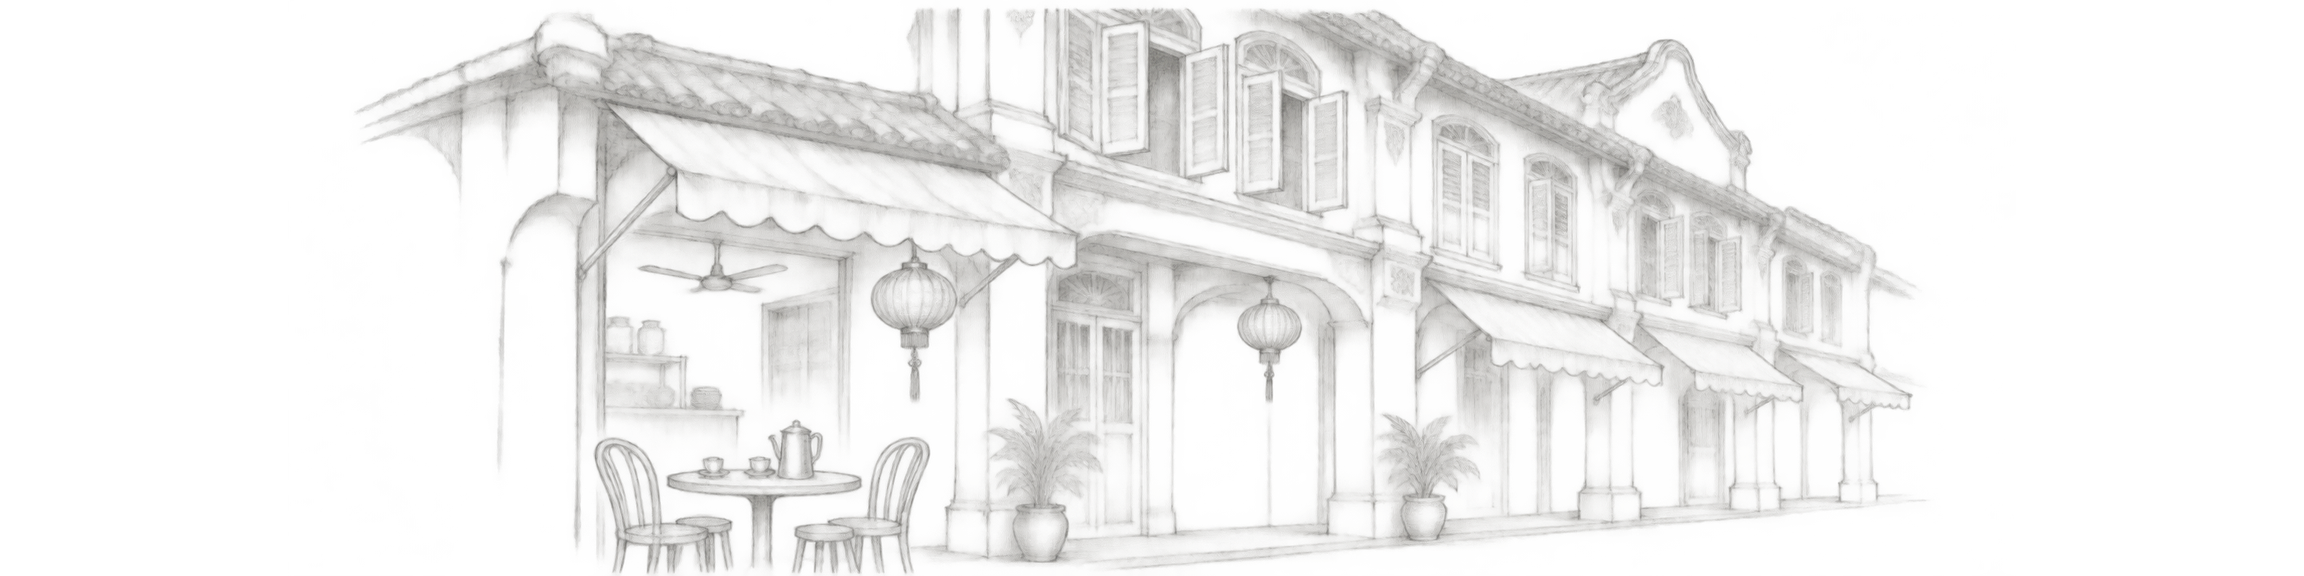
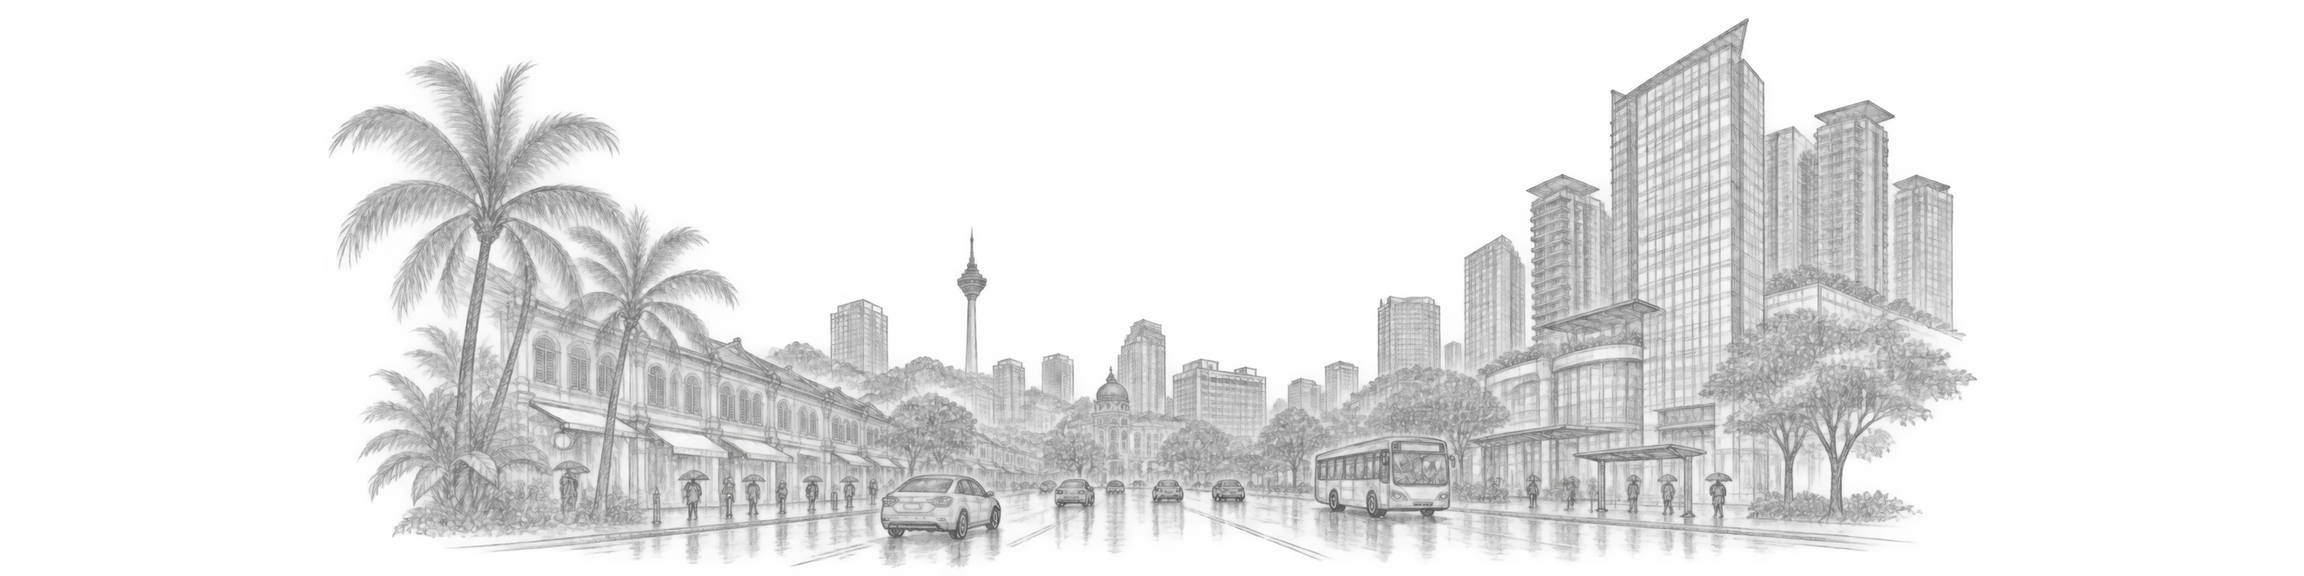
feat(rz-eval): align clues with grid and apply owner art revisions

diff --git a/docs/RZ_EVAL_P1.md b/docs/RZ_EVAL_P1.md
@@ -30,8 +30,19 @@ widersprechen dem ausdrücklichen Subjektausschluss. Kandidat 1/rev2 ersetzt ihn
 durch Handkarren und Bambuszaun ohne Landschaftshorizont. Auch dieser Fehlversuch
 bleibt im befristeten Originalsatz.
 
-Es gibt drei kreative Kandidaten je ID und zwei verworfene Vorgänger, zusammen
-17 unabhängige ImageGen-Generierungen. Herkunft, Originalhashes, Prompts und die
+Eigentümersichtung auf dem Buch: Tomate 1, Qualle 2, Chocolate Hills 1/rev2
+und Basilisk 3 sind gewählt. Die bisherigen drei Kuala-Lumpur-Fassungen sind
+abgelehnt; ihre Revision benötigt mehr Großstadt-Flair ohne Petronas Towers.
+Die Bildwahl ist keine Serienübernahme. Der Eigentümer verlangt außerdem
+dieselbe Durchlässigkeit für Hinweise und Raster und keine harten Bildabschnitte.
+Die frühere separate Hinweisaussparung ist deshalb aufgehoben.
+
+Es gibt drei aktuelle kreative Kandidaten je ID, insgesamt 20 unabhängige
+ImageGen-Generierungen und drei zugeordnete Transparenzkorrekturen per ImageGen.
+Acht Vorgänger sind verworfen/ersetzt: die ersten beiden Fehlversuche, drei
+vom Eigentümer abgelehnte Kuala-Lumpur-Fassungen und drei neue Stadtbilder mit
+unerwünschten weißen Flächen vor der Transparenzkorrektur.
+Herkunft, Originalhashes, Prompts, Elternbilder der Korrekturen und die
 15 ausgelieferten PNG-Ableitungen stehen in der [Provenienz](../game/art/drawing/rz_eval/provenance.json).
 Originale und zusätzliche Vergleichsprofile werden separat für R01/M01 zugestellt.
 Keine Zählung von Format-/Größenvarianten als kreative Kandidaten.
@@ -82,12 +93,17 @@ Gleiche 48-%-Grunddeckkraft, Illustration, Belegung und funktionale Geometrie:
 | `--rz-mode=B2` | Nur lokale 9-Sample-Unschärfe mit 2,5 Anzeige-Pixeln Radius |
 | `--rz-mode=C` | Deckender ruhiger Papierfarb-Untergrund für das gesamte Raster, einschließlich unbekannter/X-Zellen und Zwischenräume |
 
+Dieselbe A/B1/B2/C-Regel gilt getrennt für die tatsächlichen Zeilen- und
+Spaltenhinweisrechtecke. In A bleiben sie durchlässig, B1/B2 behandeln nur die
+darunterliegende Illustration und C hinterlegt auch die Hinweise deckend.
 Die funktionalen Zeichen werden danach scharf gezeichnet. B2 mittelt
 vormultiplizierte Farbe/Alpha ausschließlich aus der Illustration, ohne Screen-
 Textur, zusätzliche Kopie oder Renderziel. Alle Varianten schützen separat
-die realen Zeilen-/Spaltenhinweisflächen und sichtbaren Kopf-, Sidebar-, Werkzeug-
-und Meldungsrechtecke, indem die Illustration dort lokal transparent bleibt.
-Diese gemeinsame Schutzregel wird benannt und ist keine Motivmaske.
+sichtbare Kopf-, Sidebar-, Werkzeug- und Meldungsrechtecke. Ihre lokale
+Schutzregel läuft über acht Anzeige-Pixel weich aus. Die gemeinsame äußere
+3:1-Quellbildkante innerhalb der 4:1-Leinwand läuft über 3,5 % weich aus;
+keine individuelle Motivmaske oder Beschneidung. Vollständig innerhalb der
+Zeichenfläche komponierte Motive bleiben das Produktionsziel.
 Außerhalb der Rechtecke bleiben die Striche unverändert; keine Schwelle blendet
 Leinwand oder unbeteiligte Teile aus. C kann überdeckte Teile vollständig verdecken.
 Das ist ein Vergleich, noch keine ausgewählte Produktregel.
@@ -100,6 +116,8 @@ werden ausschließlich im temporären Vergleichsprojekt vermessen. Die Entwickle
 Schalter `--rz-profile`/`--rz-format` setzen diese separat zugestellten Dateien
 voraus; sie sind keine Spielereinstellung und lösen keinen Netzwerkdownload aus.
 Die 15 lokalen Kandidaten sind aktuelle Versuchsressourcen, keine technische Galerie.
+Ohne Kandidatenschalter gilt die konkrete Eigentümerwahl für die vier gewählten
+Rätsel; Kuala Lumpur verwendet Kandidat 1 nur als noch ungeprüfte Referenz.
 Zusätzliche Profil-/Messbilder und Buchoriginale gehören nicht in den Spielerdownload.
 
 Prüfbedarf: [.ci/package.json](../.ci/package.json), `docs` und `ci-required`,
